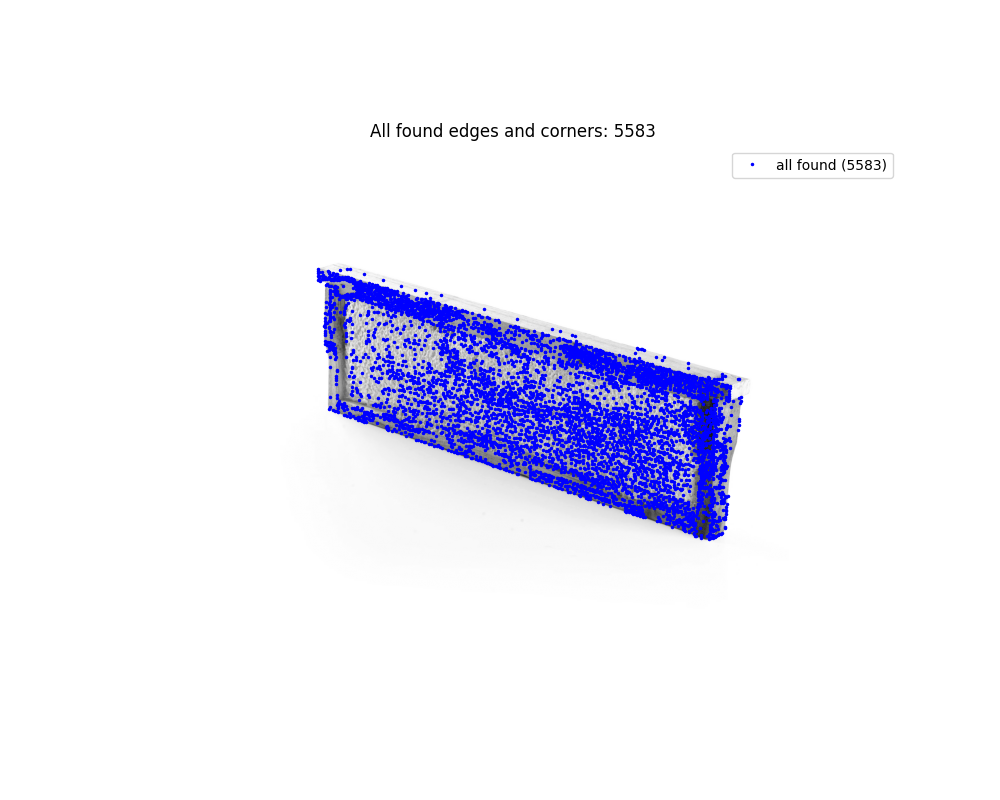
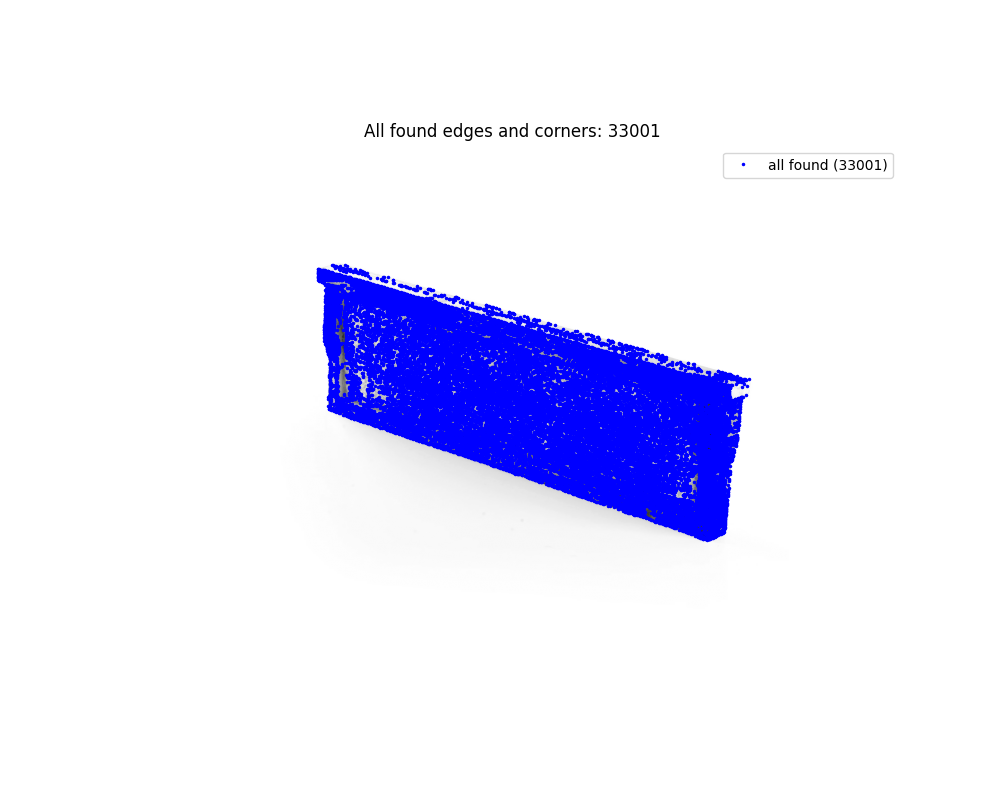
draft 3 corner detection with linear regression with greedy inspired random quadrants

Changed region(s): [[0.31, 0.3125, 0.744, 0.6875], [0.372, 0.1562, 0.651, 0.1875], [0.775, 0.1875, 0.899, 0.2188]]

diff --git a/beevision/src/beevision/geometry/helpers.py b/beevision/src/beevision/geometry/helpers.py
@@ -138,7 +138,7 @@ def jittered_quadrants(width, height, half_w, half_h, jitter=0.1):
 
 
 def random_quads(width, height, half_width, half_height, pts, top_lines, bottom_lines, left_lines,right_lines):
-    for i in range(3):  # randomize the iterations
+    for i in range(20):  # randomize the iterations
         quad = jittered_quadrants(width, height, half_width, half_height, jitter=0.08)
 
         (_, xmax1, _, ymax1) = quad[0]
@@ -200,71 +200,104 @@ def filter_corners_and_edges_close_to_approximate_frame_edge(edges_and_corners, 
     left_triangle   = (x < half_width) & (np.abs(y - half_height) < x)
     right_triangle  = (x > half_width) & (np.abs(y - half_height) < (width - x))
 
+    top_line    = fit_line_regression(pts[top_triangle],    horizontal=True)
+    bottom_line = fit_line_regression(pts[bottom_triangle], horizontal=True)
+    left_line   = fit_line_regression(pts[left_triangle],   horizontal=False)
+    right_line  = fit_line_regression(pts[right_triangle],  horizontal=False)
+
     # stpe 1: first pass (triangualr quads):
 
     # make linear regression in each quad to approximate frame edges:
-    top_pts    = pts[top_triangle]
-    bottom_pts = pts[bottom_triangle]
-    left_pts   = pts[left_triangle]
-    right_pts  = pts[right_triangle]
+    # top_pts    = pts[top_triangle]
+    # bottom_pts = pts[bottom_triangle]
+    # left_pts   = pts[left_triangle]
+    # right_pts  = pts[right_triangle]
 
-    top_line    = fit_line_regression(top_pts,    horizontal=True)
-    bottom_line = fit_line_regression(bottom_pts, horizontal=True)
-    left_line   = fit_line_regression(left_pts,   horizontal=False)
-    right_line  = fit_line_regression(right_pts,  horizontal=False)
+    # top_line    = fit_line_regression(top_pts,    horizontal=True)
+    # bottom_line = fit_line_regression(bottom_pts, horizontal=True)
+    # left_line   = fit_line_regression(left_pts,   horizontal=False)
+    # right_line  = fit_line_regression(right_pts,  horizontal=False)
 
     # # step 2: second pass (rectangualr/square quads)
 
-    top_h    = int(height * 0.25)   # top 25% of image
-    bottom_h = int(height * 0.75)   # bottom 25% starts here
-    left_w   = int(width  * 0.25)   # left 25% of image
-    right_w  = int(width  * 0.75)   # right 25% starts here
+    top_h    = int(height * 0.25)
+    bottom_h = int(height * 0.75)
+    left_w   = int(width  * 0.25)
+    right_w  = int(width  * 0.75)
+
+    top_left_line   = fit_line_regression(pts[(y < top_h)     & (x < half_width)],  horizontal=True)
+    top_right_line  = fit_line_regression(pts[(y < top_h)     & (x >= half_width)], horizontal=True)
+    bot_left_line   = fit_line_regression(pts[(y >= bottom_h) & (x < half_width)],  horizontal=True)
+    bot_right_line  = fit_line_regression(pts[(y >= bottom_h) & (x >= half_width)], horizontal=True)
+    left_top_line   = fit_line_regression(pts[(x < left_w)    & (y < half_height)], horizontal=False)
+    left_bot_line   = fit_line_regression(pts[(x < left_w)    & (y >= half_height)],horizontal=False)
+    right_top_line  = fit_line_regression(pts[(x >= right_w)  & (y < half_height)], horizontal=False)
+    right_bot_line  = fit_line_regression(pts[(x >= right_w)  & (y >= half_height)],horizontal=False)
+
+    # top_h    = int(height * 0.25)   # top 25% of image
+    # bottom_h = int(height * 0.75)   # bottom 25% starts here
+    # left_w   = int(width  * 0.25)   # left 25% of image
+    # right_w  = int(width  * 0.75)   # right 25% starts here
 
 
-    # top strip: split into left, center, right
-    top_left_mask   = (y < top_h) & (x < half_width)
-    top_right_mask  = (y < top_h) & (x >= half_width)
+    # # top strip: split into left, center, right
+    # top_left_mask   = (y < top_h) & (x < half_width)
+    # top_right_mask  = (y < top_h) & (x >= half_width)
 
-    # bottom strip: split into left, center, right
-    bot_left_mask   = (y >= bottom_h) & (x < half_width)
-    bot_right_mask  = (y >= bottom_h) & (x >= half_width)
+    # # bottom strip: split into left, center, right
+    # bot_left_mask   = (y >= bottom_h) & (x < half_width)
+    # bot_right_mask  = (y >= bottom_h) & (x >= half_width)
 
-    # left strip: split into top, bottom
-    left_top_mask   = (x < left_w) & (y < half_height)
-    left_bot_mask   = (x < left_w) & (y >= half_height)
+    # # left strip: split into top, bottom
+    # left_top_mask   = (x < left_w) & (y < half_height)
+    # left_bot_mask   = (x < left_w) & (y >= half_height)
 
-    # right strip: split into top, bottom
-    right_top_mask  = (x >= right_w) & (y < half_height)
-    right_bot_mask  = (x >= right_w) & (y >= half_height)
+    # # right strip: split into top, bottom
+    # right_top_mask  = (x >= right_w) & (y < half_height)
+    # right_bot_mask  = (x >= right_w) & (y >= half_height)
 
-    top_left_pts   = pts[top_left_mask]
-    top_right_pts  = pts[top_right_mask]
-    bot_left_pts   = pts[bot_left_mask]
-    bot_right_pts  = pts[bot_right_mask]
-    left_top_pts   = pts[left_top_mask]
-    left_bot_pts   = pts[left_bot_mask]
-    right_top_pts  = pts[right_top_mask]
-    right_bot_pts  = pts[right_bot_mask]
+    # top_left_pts   = pts[top_left_mask]
+    # top_right_pts  = pts[top_right_mask]
+    # bot_left_pts   = pts[bot_left_mask]
+    # bot_right_pts  = pts[bot_right_mask]
+    # left_top_pts   = pts[left_top_mask]
+    # left_bot_pts   = pts[left_bot_mask]
+    # right_top_pts  = pts[right_top_mask]
+    # right_bot_pts  = pts[right_bot_mask]
 
-    top_left_line   = fit_line_regression(top_left_pts,   horizontal=True)
-    top_right_line  = fit_line_regression(top_right_pts,  horizontal=True)
-    bot_left_line   = fit_line_regression(bot_left_pts,   horizontal=True)
-    bot_right_line  = fit_line_regression(bot_right_pts,  horizontal=True)
-    left_top_line   = fit_line_regression(left_top_pts,   horizontal=False)
-    left_bot_line   = fit_line_regression(left_bot_pts,   horizontal=False)
-    right_top_line  = fit_line_regression(right_top_pts,  horizontal=False)
-    right_bot_line  = fit_line_regression(right_bot_pts,  horizontal=False)
+    # top_left_line   = fit_line_regression(top_left_pts,   horizontal=True)
+    # top_right_line  = fit_line_regression(top_right_pts,  horizontal=True)
+    # bot_left_line   = fit_line_regression(bot_left_pts,   horizontal=True)
+    # bot_right_line  = fit_line_regression(bot_right_pts,  horizontal=True)
+    # left_top_line   = fit_line_regression(left_top_pts,   horizontal=False)
+    # left_bot_line   = fit_line_regression(left_bot_pts,   horizontal=False)
+    # right_top_line  = fit_line_regression(right_top_pts,  horizontal=False)
+    # right_bot_line  = fit_line_regression(right_bot_pts,  horizontal=False)
 
     # step 3: average tbetween the passes
-    top_final    = average_lines(top_line, top_left_line, top_right_line)
+    top_lines    = [top_line,    top_left_line,  top_right_line]
+    bottom_lines = [bottom_line, bot_left_line,  bot_right_line]
+    left_lines   = [left_line,   left_top_line,  left_bot_line]
+    right_lines  = [right_line,  right_top_line, right_bot_line]
 
-    bottom_final = average_lines(bottom_line, bot_left_line, bot_right_line)
-    left_final   = average_lines(left_line, left_top_line, left_bot_line)
-    right_final  = average_lines(right_line, right_top_line, right_bot_line)
+    # random jittered quads appends more lines to each list
+    random_quads(width, height, half_width, half_height, pts, top_lines, bottom_lines, left_lines, right_lines)
+                 
+    # top_final    = average_lines(top_line, top_left_line, top_right_line)
 
-    
+    # bottom_final = average_lines(bottom_line, bot_left_line, bot_right_line)
+    # left_final   = average_lines(left_line, left_top_line, left_bot_line)
+    # right_final  = average_lines(right_line, right_top_line, right_bot_line)
 
-    random_quads(width, height, half_width, half_height, pts, top_lines, bottom_lines, left_lines,right_lines)
+
+
+    # random_quads(width, height, half_width, half_height, pts, top_final, bottom_final, left_final,right_final)
+
+
+    top_final    = average_lines(*top_lines)
+    bottom_final = average_lines(*bottom_lines)
+    left_final   = average_lines(*left_lines)
+    right_final  = average_lines(*right_lines)
 
     # step 4: filter points close to frame edges:
     line_threshold = 20  

diff --git a/beevision/src/beevision/geometry/rectification.py b/beevision/src/beevision/geometry/rectification.py
@@ -243,8 +243,8 @@ def detect_frame_corners(image, index):
 
     from sklearn.cluster import KMeans # added
 
-    m_dist = 5 # reminder: increasees makes it less sensitive, decreases makes it more sensitive
-    thresh_rel = 0.01
+    m_dist = 1 # reminder: increasees makes it less sensitive, decreases makes it more sensitive
+    thresh_rel = 0.001
 
     coords = peak_local_max(h_score, min_distance=m_dist, threshold_rel=thresh_rel)
 
